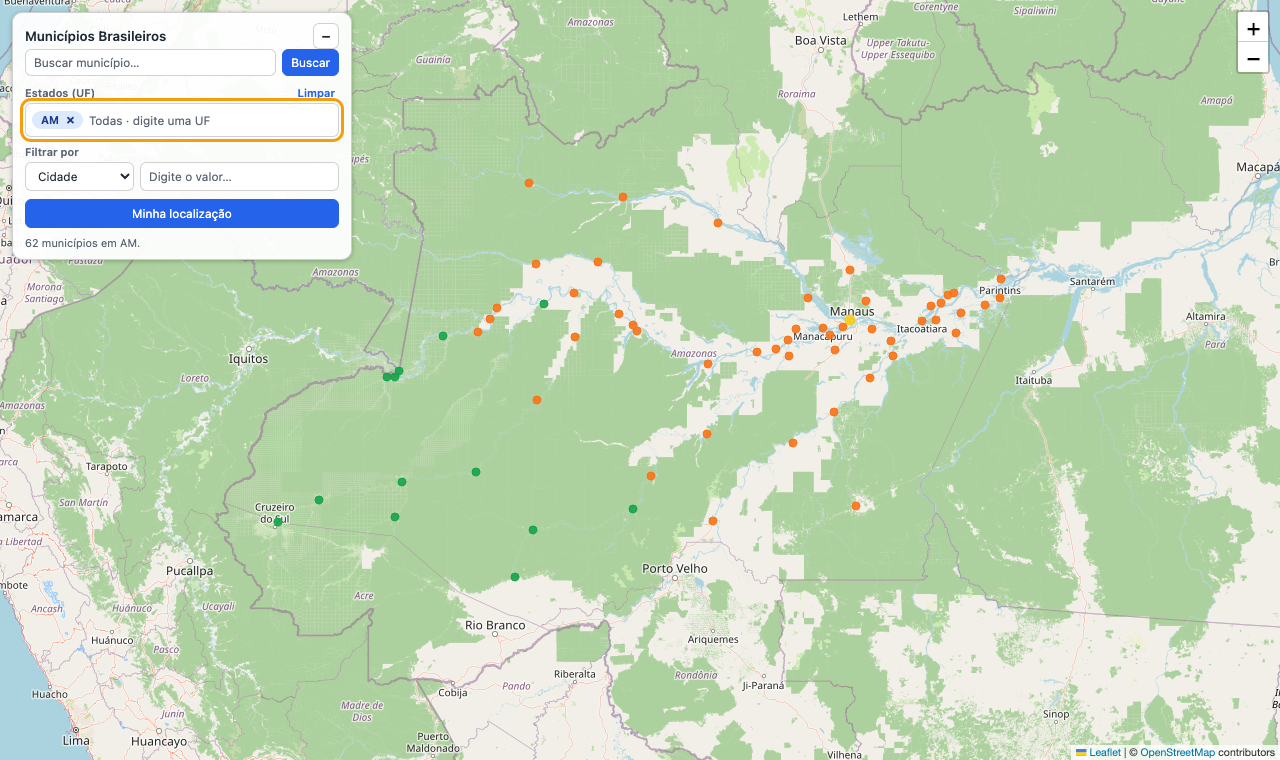
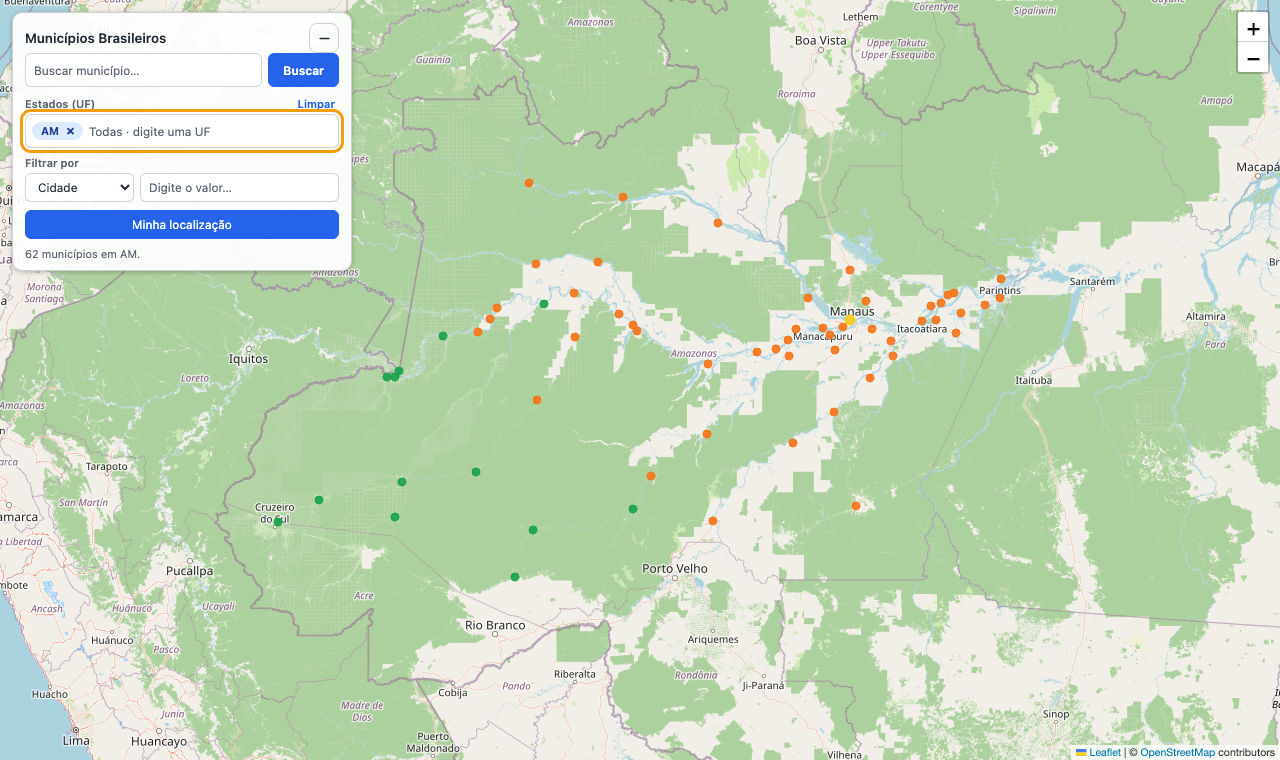
Polish explorer search and panel toggle, and update README
- Replace the native datalist with a styled suggestion list (arrows, Enter, Escape)
- Align the search input and button, and hide native search decorations
- Use SVG icons for the minimize and expand button
- Update README search and panel descriptions and regenerate the screenshot

diff --git a/web/app.js b/web/app.js
@@ -25,6 +25,11 @@
     const DEFAULT_COLOR = '#94a3b8';
     const CAPITAL_COLOR = '#facc15';
     const EARTH_RADIUS_KM = 6371.0088;
+    const MAX_SEARCH_RESULTS = 8;
+
+    // Icons for the panel toggle button (inline SVG, so they follow the text colour).
+    const MINUS_ICON = '<svg class="icon" viewBox="0 0 24 24" aria-hidden="true"><path d="M5 12h14"/></svg>';
+    const PLUS_ICON = '<svg class="icon" viewBox="0 0 24 24" aria-hidden="true"><path d="M12 5v14M5 12h14"/></svg>';
 
     // Above this many points, markers are drawn smaller to keep the map readable.
     const DENSE_THRESHOLD = 1000;
@@ -38,6 +43,8 @@
         fieldFilter: { field: 'nome', value: '' }, // empty value means "no field filter"
         ufVisibleOptions: [],   // options currently shown in the dropdown
         ufActiveIndex: -1,      // keyboard highlight in the dropdown
+        searchMatches: [],      // municipality suggestions for the search box
+        searchActive: -1,       // keyboard highlight in the suggestions
         map: null,
         mapLayer: null,
         userMarker: null,
@@ -48,7 +55,7 @@
         status: document.getElementById('status'),
         searchForm: document.getElementById('search-form'),
         searchInput: document.getElementById('search-input'),
-        datalist: document.getElementById('municipios-list'),
+        searchList: document.getElementById('search-list'),
         ufField: document.getElementById('uf-field'),
         ufBox: document.getElementById('uf-box'),
         ufChips: document.getElementById('uf-chips'),
@@ -188,14 +195,6 @@
             .sort((a, b) => a.codigo_uf - b.codigo_uf)
             .map((e) => ({ uf: e.uf, nome: e.nome, regiao: e.regiao }));
 
-        // Datalist powers the browser's built-in autocomplete for municipality names.
-        const fragment = document.createDocumentFragment();
-        for (const m of state.municipios) {
-            const option = document.createElement('option');
-            option.value = `${m.nome} - ${m.uf}`;
-            fragment.appendChild(option);
-        }
-        el.datalist.appendChild(fragment);
     }
 
     function initMap() {
@@ -424,6 +423,100 @@
         }
     }
 
+    // ---------- municipality search suggestions ----------
+
+    /** Up to MAX_SEARCH_RESULTS municipalities: names starting with the query first. */
+    function searchSuggestions(query) {
+        const needle = normalize(query.split(' - ')[0]);
+        if (!needle) return [];
+
+        const startsWith = [];
+        const contains = [];
+        for (const m of state.municipios) {
+            const name = normalize(m.nome);
+            if (name.startsWith(needle)) {
+                startsWith.push(m);
+            } else if (name.includes(needle)) {
+                contains.push(m);
+            }
+        }
+        return [...startsWith, ...contains].slice(0, MAX_SEARCH_RESULTS);
+    }
+
+    function openSearchList() {
+        renderSearchList();
+        el.searchList.classList.remove('hidden');
+        el.searchInput.setAttribute('aria-expanded', 'true');
+    }
+
+    function closeSearchList() {
+        el.searchList.classList.add('hidden');
+        el.searchInput.setAttribute('aria-expanded', 'false');
+        state.searchActive = -1;
+    }
+
+    function renderSearchList() {
+        state.searchMatches = searchSuggestions(el.searchInput.value);
+        if (state.searchActive >= state.searchMatches.length) state.searchActive = -1;
+
+        el.searchList.replaceChildren();
+        state.searchMatches.forEach((m, index) => {
+            const item = document.createElement('li');
+            item.className = 'search-option';
+            item.classList.toggle('active', index === state.searchActive);
+            item.setAttribute('role', 'option');
+            item.setAttribute('aria-selected', String(index === state.searchActive));
+
+            const name = document.createElement('span');
+            name.className = 'search-name';
+            name.textContent = m.nome;
+
+            const uf = document.createElement('span');
+            uf.className = 'uf-name';
+            uf.textContent = m.uf;
+
+            item.append(name, uf);
+            // mousedown fires before blur, so the choice registers before the list closes.
+            item.addEventListener('mousedown', (event) => {
+                event.preventDefault();
+                chooseSuggestion(m);
+            });
+            el.searchList.appendChild(item);
+        });
+    }
+
+    function chooseSuggestion(m) {
+        el.searchInput.value = `${m.nome} - ${m.uf}`;
+        closeSearchList();
+        selectMunicipio(m);
+        setStatus(`Mostrando ${m.nome} – ${m.uf}.`);
+    }
+
+    function moveSearchActive(step) {
+        const count = state.searchMatches.length;
+        if (count === 0) return;
+        state.searchActive = (state.searchActive + step + count) % count;
+        renderSearchList();
+        const active = el.searchList.querySelector('.search-option.active');
+        if (active) active.scrollIntoView({ block: 'nearest' });
+    }
+
+    function onSearchKeydown(event) {
+        const listOpen = !el.searchList.classList.contains('hidden');
+
+        if (event.key === 'ArrowDown' || event.key === 'ArrowUp') {
+            event.preventDefault();
+            if (!listOpen) openSearchList();
+            moveSearchActive(event.key === 'ArrowDown' ? 1 : -1);
+        } else if (event.key === 'Enter' && listOpen && state.searchActive >= 0) {
+            // Enter picks the highlighted suggestion instead of submitting the form.
+            event.preventDefault();
+            chooseSuggestion(state.searchMatches[state.searchActive]);
+        } else if (event.key === 'Escape') {
+            closeSearchList();
+        }
+    }
+
     // ---------- selection ----------
 
     function showInfo(m) {
@@ -514,7 +607,7 @@
         const needle = normalize(query);
         if (!needle) return null;
 
-        // Accepts "Nome - UF" from the datalist, or a plain name.
+        // Accepts "Nome - UF" (as written by a suggestion), or a plain name.
         const [namePart, ufPart] = query.split(' - ');
         const ufHint = ufPart ? ufPart.trim().toUpperCase() : '';
         const wanted = normalize(namePart);
@@ -538,6 +631,17 @@
             }
         });
 
+        // Municipality suggestions.
+        el.searchInput.addEventListener('focus', () => {
+            if (el.searchInput.value.trim()) openSearchList();
+        });
+        el.searchInput.addEventListener('input', () => {
+            state.searchActive = 0;
+            openSearchList();
+            if (state.searchMatches.length === 0) state.searchActive = -1;
+        });
+        el.searchInput.addEventListener('keydown', onSearchKeydown);
+
         // UF multi-select.
         el.ufInput.addEventListener('focus', openUfList);
         el.ufInput.addEventListener('input', () => {
@@ -549,6 +653,7 @@
         el.ufClear.addEventListener('click', clearUfSelection);
         document.addEventListener('mousedown', (event) => {
             if (!el.ufField.contains(event.target)) closeUfList();
+            if (!el.searchForm.contains(event.target)) closeSearchList();
         });
 
         // Field filter: the select chooses the field, the input supplies the value.
@@ -569,7 +674,7 @@
 
         el.togglePanel.addEventListener('click', () => {
             const collapsed = el.toolbar.classList.toggle('collapsed');
-            el.togglePanel.textContent = collapsed ? '+' : '–';
+            el.togglePanel.innerHTML = collapsed ? PLUS_ICON : MINUS_ICON;
             el.togglePanel.setAttribute('aria-expanded', String(!collapsed));
             el.togglePanel.setAttribute('aria-label', collapsed ? 'Expandir painel' : 'Minimizar painel');
             el.togglePanel.title = collapsed ? 'Expandir' : 'Minimizar';

diff --git a/web/style.css b/web/style.css
@@ -78,12 +78,29 @@ body {
 
 .toggle {
     flex: none;
-    width: 26px;
-    height: 26px;
+    display: inline-flex;
+    align-items: center;
+    justify-content: center;
+    width: 30px;
+    height: 30px;
     padding: 0;
-    line-height: 1;
-    font-size: 1rem;
-    font-weight: 600;
+    border-radius: 8px;
+    background: transparent;
+    color: var(--text);
+}
+
+.toggle:hover {
+    background: rgba(0, 0, 0, 0.06);
+}
+
+.icon {
+    width: 15px;
+    height: 15px;
+    fill: none;
+    stroke: currentColor;
+    stroke-width: 2.2;
+    stroke-linecap: round;
+    stroke-linejoin: round;
 }
 
 .toolbar.collapsed {
@@ -398,4 +415,74 @@ select:focus-visible {
         width: calc(100% - 16px);
     }
 
+}
+
+/* Search: input and button share one height; suggestions use the same dropdown style as the UF list. */
+.search {
+    align-items: stretch;
+}
+
+.search-field {
+    position: relative;
+    flex: 1;
+    min-width: 0;
+    display: flex;
+}
+
+.search-field input {
+    flex: 1;
+    width: 100%;
+    min-width: 0;
+    height: 34px;
+}
+
+.search button {
+    height: 34px;
+    padding: 0 14px;
+    font-weight: 600;
+}
+
+.search-list {
+    position: absolute;
+    z-index: 30;
+    top: 100%;
+    left: 0;
+    right: 0;
+    max-height: 240px;
+    overflow-y: auto;
+    margin: 4px 0 0;
+    padding: 4px;
+    list-style: none;
+    background: #ffffff;
+    border: 1px solid var(--border);
+    border-radius: 8px;
+    box-shadow: 0 6px 18px rgba(0, 0, 0, 0.2);
+}
+
+.search-option {
+    display: flex;
+    align-items: center;
+    justify-content: space-between;
+    gap: 8px;
+    padding: 6px 8px;
+    border-radius: 5px;
+    cursor: pointer;
+    font-size: 0.85rem;
+    user-select: none;
+}
+
+.search-option.active {
+    background: #eff6ff;
+}
+
+.search-option .search-name {
+    overflow: hidden;
+    text-overflow: ellipsis;
+    white-space: nowrap;
+}
+
+/* Hide the browser's own clear and picker decorations, in case a native search field is used. */
+input[type="search"]::-webkit-search-cancel-button,
+input::-webkit-calendar-picker-indicator {
+    display: none;
 }

diff --git a/web/index.html b/web/index.html
@@ -18,14 +18,19 @@
             <div class="panel-header">
                 <h1>Municípios Brasileiros</h1>
                 <button type="button" id="toggle-panel" class="toggle" aria-expanded="true"
-                        aria-controls="panel-body" aria-label="Minimizar painel" title="Minimizar">–</button>
+                        aria-controls="panel-body" aria-label="Minimizar painel" title="Minimizar"><svg class="icon" viewBox="0 0 24 24" aria-hidden="true"><path d="M5 12h14"/></svg></button>
             </div>
 
             <div id="panel-body" class="panel-body">
                 <form id="search-form" class="search" autocomplete="off">
-                    <input id="search-input" type="search" list="municipios-list"
-                           placeholder="Buscar município…" aria-label="Buscar município">
-                    <datalist id="municipios-list"></datalist>
+                    <div class="search-field">
+                        <input id="search-input" type="text" spellcheck="false"
+                               placeholder="Buscar município…" aria-label="Buscar município"
+                               role="combobox" aria-expanded="false" aria-controls="search-list"
+                               aria-autocomplete="list">
+                        <ul id="search-list" class="search-list hidden" role="listbox"
+                            aria-label="Sugestões de município"></ul>
+                    </div>
                     <button type="submit">Buscar</button>
                 </form>
 

diff --git a/README.md b/README.md
@@ -131,12 +131,12 @@ A tabela `estados` segue o mesmo padrão e está em [`sql/estados.sql`](sql/esta
 A pasta [`web/`](web/) tem um explorador estático, sem etapa de build:
 
 - **Mapa** com os 5.570 municípios, coloridos por fuso horário, com as capitais destacadas, usando tiles do [OpenStreetMap](https://www.openstreetmap.org/copyright);
-- **Busca** por nome, sem diferenciar acentos nem maiúsculas;
+- **Busca** por nome com sugestões enquanto você digita (use as setas e Enter para escolher), sem diferenciar acentos nem maiúsculas;
 - **Filtro por UF** com seleção múltipla: digite a sigla ou o nome do estado e escolha quantos quiser; cada UF escolhida vira um chip;
 - **Filtro por campo**: escolha entre cidade, código IBGE, DDD ou fuso horário e digite o valor. Os filtros de UF e de campo se combinam;
 - **Minha localização**: usa a geolocalização do navegador e encontra o município mais próximo de você.
 - **Limite dos dados**: o repositório não tem CEP, rua nem bairro, então não há filtro por esses campos. Ele tem código IBGE, cidade, UF, DDD e fuso horário.
-- **Painel recolhível**: a busca fica no canto superior esquerdo e pode ser minimizada pelo botão **–**. O município selecionado aparece no canto inferior direito, acima da atribuição do mapa. O layout também funciona em celular.
+- **Painel recolhível**: a busca fica no canto superior esquerdo e pode ser minimizada pelo botão de traço (**—**); clique de novo para expandir. O município selecionado aparece no canto inferior direito, acima da atribuição do mapa. O layout também funciona em celular.
 
 ![Mapa 2D com OpenStreetMap](docs/images/map.png)
 
